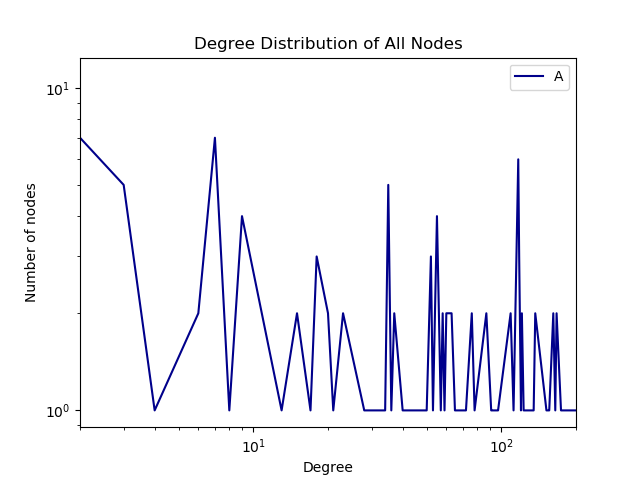
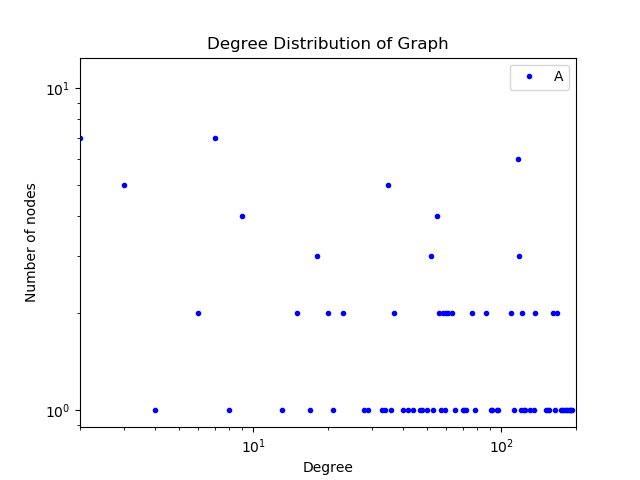
V1.5

diff --git a/src/analytcs.py b/src/analytcs.py
@@ -3,12 +3,15 @@ import matplotlib
 matplotlib.use ("agg")
 import matplotlib . pyplot as plt
 
+money = 0.01
+for _ in range(27):
+	money *=2
+print(money)
 
 
+GraphFile = "graphs/graph_version6.gexf"
 
-GraphFile = "graphs/ONLY_RED.graphml"
-
-G = nx.read_graphml(GraphFile)
+G = nx.read_gexf(GraphFile)
 
 
 #QUESTAO B
@@ -29,14 +32,14 @@ degrees_map = sorted(degrees.items())
 
 fig = plt.figure()
 ax = fig.add_subplot(111)
-ax.loglog([ degree for (degree , frequency ) in degrees_map ] , [ frequency for (degree ,frequency ) in degrees_map ],  'red')
-plt.legend("Combatants")
+ax.loglog([ degree for (degree , frequency ) in degrees_map ] , [ frequency for (degree ,frequency ) in degrees_map ],  'b.')
+plt.legend('All Nodes')
 plt.xlabel('Degree')
 plt.ylabel('Number of nodes')
-plt.title ( "Degree Distribution of Combatants" )
+plt.title ( "Degree Distribution of nodes" )
 
 plt.xlim([2*10**0, 2*10**2])
-fig.savefig ( "degree_distribution_red.png" )
+fig.savefig ( "degree_distribution_green.png" )
 
 #GRAU MEDIO
 sum_of_edges = 0
@@ -44,23 +47,22 @@ for node in G.nodes():
 	sum_of_edges += G.degree(node)
 
 average_degree = sum_of_edges/len(G)
-
+print("Grau medio")
 print(average_degree)
 
 
 #QUESTAO C
 
-print(nx.number_connected_components(G))
 
 #QUSTAO D
 
-clustering = {}
-index = 0
-for node in G.nodes():
-	clustering[index] = nx.clustering(G,node)	
-	index = index + 1 
+#clustering = {}
+#index = 0
+#for node in G.nodes():
+#	clustering[index] = nx.clustering(G,node)	
+#	index = index + 1 
 
-degrees_map = sorted(clustering.items())
+#degrees_map = sorted(clustering.items())
 
 
 
@@ -68,9 +70,46 @@ degrees_map = sorted(clustering.items())
 # components = networkx.connected_components(networkx.from_numpy_matrix(numpy.matrix(temp_A)))
 # For the time being returns the size of the largest component	
 #component_sizes = [len(x) for x in components][0]
+tempgraph = G.copy();
+
+# Try to see if the graph is not connected because of isolated nodes
+isolate_list = list(nx.isolates(tempgraph))
+self_edges = list(nx.nodes_with_selfloops(tempgraph))
+
+for loop in self_edges:
+	tempgraph.remove_edge(loop,loop)
+
+for isolated_node in isolate_list:
+	tempgraph.remove_node(isolated_node)
+
+subgraphs = list(nx.connected_component_subgraphs(tempgraph))
+distribution_componnets={};
+
+for sb in subgraphs:            
+    size = len(sb)
+    if size not in distribution_componnets:
+    	distribution_componnets[size] = 0
+    distribution_componnets[size] += 1
 
 
 
+
+components_map = sorted(distribution_componnets.items())
+
+
+fig2 = plt.figure()
+ax2 = fig2.add_subplot(111)
+ax2.loglog([ degree for (degree , frequency ) in components_map ] , [ frequency for (degree ,frequency ) in components_map ],  'b.')
+plt.legend('All Nodes')
+plt.xlabel('Tamanho do Componente')
+plt.ylabel('Number of nodes')
+plt.title ( "Distribuição do tamanho dos componentes" )
+
+
+fig2.savefig ( "components.png" )
+
+print("Numero de componentes")
+print(nx.number_connected_components(tempgraph 	))
 #QUESTAO F
 
 #https://stackoverflow.com/questions/49733244/how-can-i-calculate-neighborhood-overlap-in-weighted-network
@@ -79,31 +118,122 @@ overlap = {}
 
 for node1 in G.nodes():
 	for node2 in G.nodes():
-		if(nx.has_edge(G,node1, node2))
+		if(G.has_edge(node1, node2)):
 			n_common_nbrs = len(set(nx.common_neighbors(G, node1, node2)))
-			n_join_nbrs = g.degree(node1) + g.degree(node2) - n_common_nbrs - 2
+			n_join_nbrs = G.degree(node1) + G.degree(node2) - n_common_nbrs - 2
 			result = n_common_nbrs/n_join_nbrs
 			if result not in overlap:
 				overlap[result] = 0
 			overlap[result] += 1
+			#print("TESTE")
 
 overlap_map = sorted(overlap.items())
+
+fig2 = plt.figure()
+ax2 = fig2.add_subplot(111)
+ax2.loglog([ degree for (degree , frequency ) in overlap_map ] , [ frequency for (degree ,frequency ) in overlap_map ],  'b.')
+plt.legend('All Nodes')
+plt.xlabel('Overlap')
+plt.ylabel('Number of nodes')
+plt.title ( "Distribuição do overlap da vizinhança " )
+
+print("Calculando Overlap")
+
+fig2.savefig ( "overlap.png" )
+
 #QUESTAO G
 
 #https://networkx.github.io/documentation/networkx-1.10/reference/generated/networkx.algorithms.shortest_paths.generic.average_shortest_path_length.html
 
 
-average_short_path = nx.average_shortest_path_length(G)
-shortpath = {}
-for node1 in G.nodes:
-	for node2 in G.nodes:
-		path_len = nx.shortest_path_length(G, node1, node2)
-		if path_len not in shortpath:
-			shortpath[path_len] = 0
-		shortpath[path_len] += 0
+#average_short_path = nx.average_shortest_path_length(G)
+#shortpath = {}
+#for node1 in G.nodes:
+##		path_len = nx.shortest_path_length(G, node1, node2)
+#		if path_len not in shortpath:
+#			shortpath[path_len] = 0
+#		shortpath[path_len] += 0
 
-		
-shortpath_map = sorted(shortpath.items())
+tempgraph = G.copy();
+
+# Try to see if the graph is not connected because of isolated nodes
+isolate_list = list(nx.isolates(tempgraph))
+self_edges = list(nx.nodes_with_selfloops(tempgraph))
+
+for loop in self_edges:
+	tempgraph.remove_edge(loop,loop)
+
+for isolated_node in isolate_list:
+	tempgraph.remove_node(isolated_node)
+print("Caminho Medio")
+print(nx.average_shortest_path_length(tempgraph))
+        # Compute the average shortest path for each subgraph and mean it!
+#subgraphs = nx.connected_component_subgraphs(tempgraph)
+#average=0;
+#for sb in subgraphs:            
+ #   average+=nx.average_shortest_path_length(sb);
+        
+
+	
+#print()
+node_betwenness = nx.betweenness_centrality(G)
+betwenness = {}
+for key,value in node_betwenness.items():
+	
+	if value not in betwenness:
+		betwenness[value] = 0
+	betwenness[value] += 1
+
+betwenness_map = sorted(betwenness.items())
+print(betwenness_map)
+
+
+
+
+fig2 = plt.figure()
+ax2 = fig2.add_subplot(111)
+ax2.loglog([ degree for (degree , frequency ) in betwenness_map ] , [ frequency for (degree ,frequency ) in betwenness_map ],  'b.')
+plt.legend('All Nodes')
+plt.xlabel('Overlap')
+plt.ylabel('Number of nodes')
+plt.title ( "Distribuição do overlap da vizinhança " )
+
+print("Calculando Overlap")
+
+fig2.savefig ( "betwenness_nos.png" )
+
+
+edge_betwenness = nx.edge_betweenness_centrality(G)
+betwenness = {}
+for key,value in edge_betwenness.items():
+	
+	if value not in betwenness:
+		betwenness[value] = 0
+	betwenness[value] += 1
+
+betwenness_map = sorted(betwenness.items())
+
+
+
+
+
+
+fig2 = plt.figure()
+ax2 = fig2.add_subplot(111)
+ax2.loglog([ degree for (degree , frequency ) in betwenness_map ] , [ frequency for (degree ,frequency ) in betwenness_map ],  'b.')
+plt.legend('All Nodes')
+plt.xlabel('Overlap')
+plt.ylabel('Number of nodes')
+plt.title ( "Distribuição do overlap da vizinhança " )
+
+print("Calculando Overlap")
+
+fig2.savefig ( "betwenness_edges.png" )
+
+
+
+#
+#shortpath_map = sorted(shortpath.items())
 #QUESTAO H
 
 #https://networkx.github.io/documentation/networkx-1.10/reference/generated/networkx.algorithms.centrality.betweenness_centrality.html
